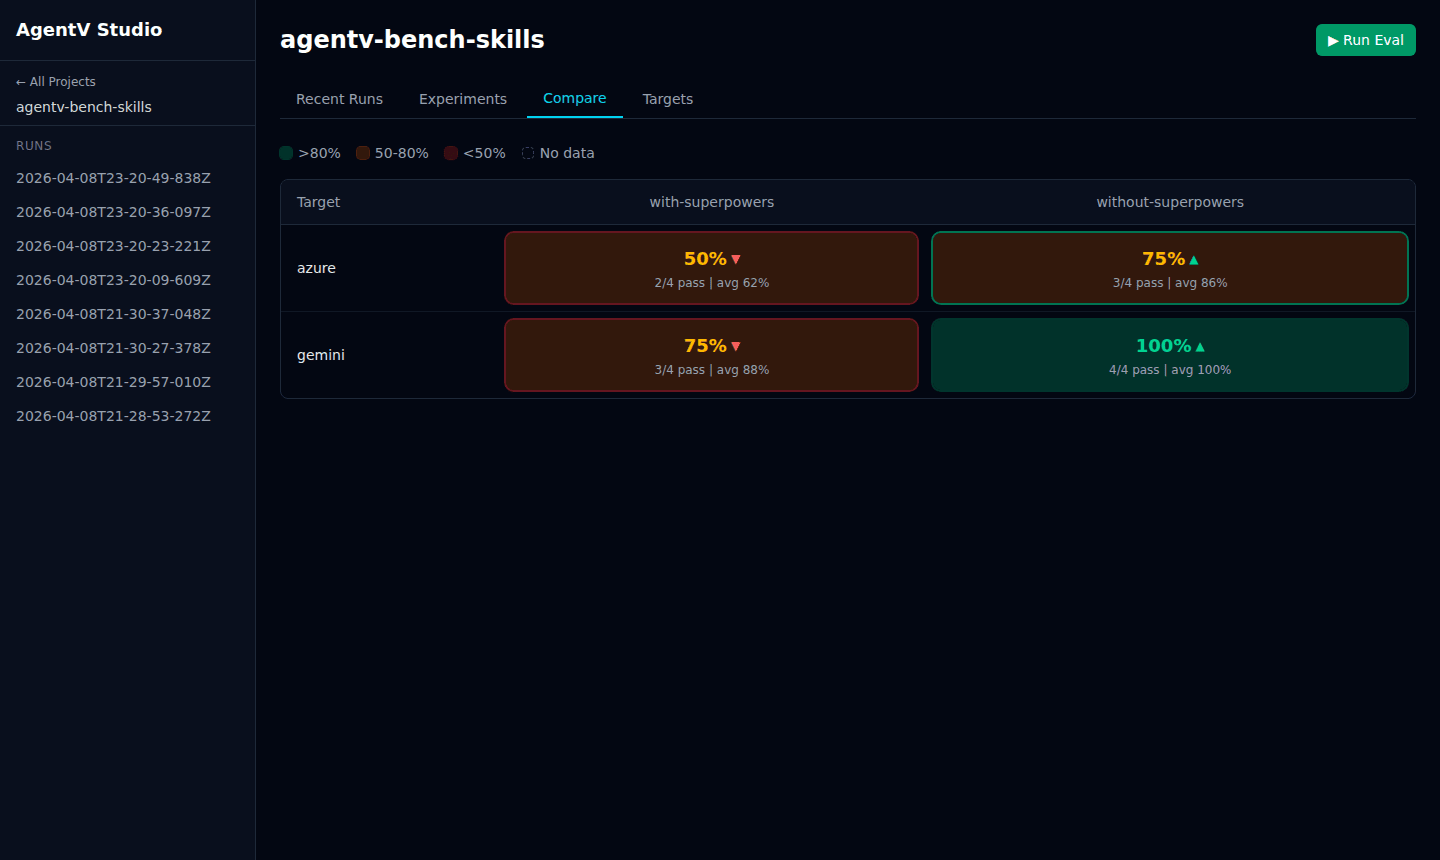
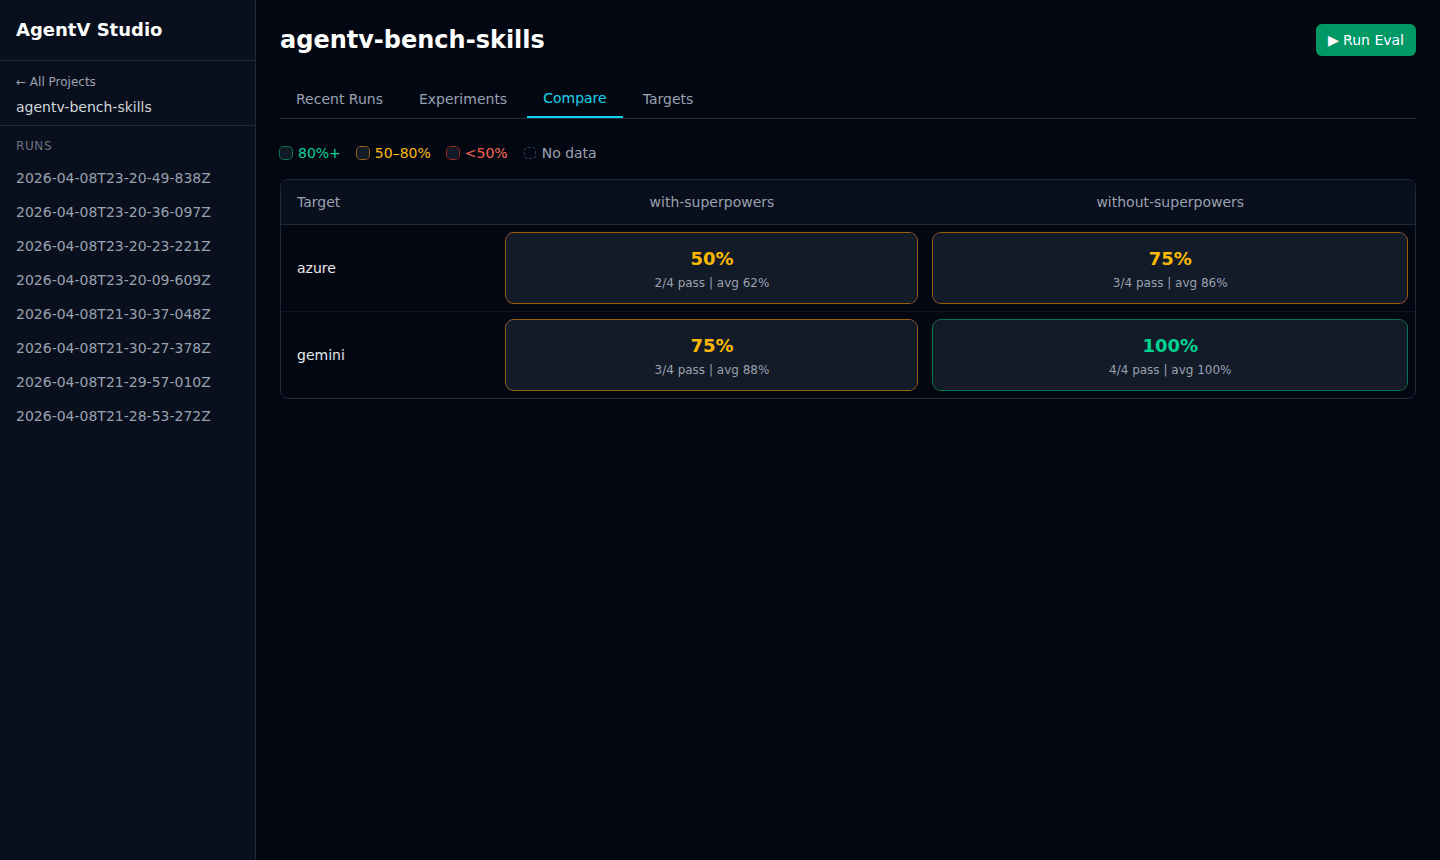
fix(studio): neutral cell background, semantic color on ring and text only
Previously cells mixed semantic background (amber/emerald/red) with a
separate ring highlight for best/worst, creating inconsistent signals.
Now: neutral bg-gray-800 for all cells, ring and text carry the semantic color.
Also removes best/worst highlighting entirely — it read as delta indicators.

diff --git a/apps/studio/src/components/CompareTab.tsx b/apps/studio/src/components/CompareTab.tsx
@@ -67,37 +67,20 @@ export function CompareTab({ data, isLoading, isError, error }: CompareTabProps)
     cellMap.set(JSON.stringify([cell.experiment, cell.target]), cell);
   }
 
-  // Find best pass rate per row (target) for highlighting
-  const bestByTarget = new Map<string, number>();
-  const worstByTarget = new Map<string, number>();
-  for (const target of targets) {
-    let best = -1;
-    let worst = 2;
-    for (const experiment of experiments) {
-      const cell = cellMap.get(JSON.stringify([experiment, target]));
-      if (cell) {
-        if (cell.pass_rate > best) best = cell.pass_rate;
-        if (cell.pass_rate < worst) worst = cell.pass_rate;
-      }
-    }
-    bestByTarget.set(target, best);
-    worstByTarget.set(target, worst);
-  }
-
   return (
     <div className="space-y-4">
       <div className="flex items-center gap-4 text-sm text-gray-400">
         <span className="flex items-center gap-1.5">
-          <span className="inline-block h-3 w-3 rounded-sm bg-emerald-900/60 ring-1 ring-emerald-700/40" />
-          &gt;80%
+          <span className="inline-block h-3 w-3 rounded-sm bg-gray-800/60 ring-1 ring-emerald-500/60" />
+          <span className="text-emerald-400">80%+</span>
         </span>
         <span className="flex items-center gap-1.5">
-          <span className="inline-block h-3 w-3 rounded-sm bg-amber-900/40 ring-1 ring-amber-700/40" />
-          50-80%
+          <span className="inline-block h-3 w-3 rounded-sm bg-gray-800/60 ring-1 ring-amber-500/60" />
+          <span className="text-amber-400">50–80%</span>
         </span>
         <span className="flex items-center gap-1.5">
-          <span className="inline-block h-3 w-3 rounded-sm bg-red-900/40 ring-1 ring-red-700/40" />
-          &lt;50%
+          <span className="inline-block h-3 w-3 rounded-sm bg-gray-800/60 ring-1 ring-red-500/60" />
+          <span className="text-red-400">&lt;50%</span>
         </span>
         <span className="flex items-center gap-1.5">
           <span className="inline-block h-3 w-3 rounded-sm border border-dashed border-gray-700" />
@@ -124,8 +107,6 @@ export function CompareTab({ data, isLoading, isError, error }: CompareTabProps)
                 target={target}
                 experiments={experiments}
                 cellMap={cellMap}
-                bestRate={bestByTarget.get(target) ?? 0}
-                worstRate={worstByTarget.get(target) ?? 0}
               />
             ))}
           </tbody>
@@ -139,14 +120,10 @@ function CompareRow({
   target,
   experiments,
   cellMap,
-  bestRate,
-  worstRate,
 }: {
   target: string;
   experiments: string[];
   cellMap: Map<string, CompareCell>;
-  bestRate: number;
-  worstRate: number;
 }) {
   return (
     <tr className="transition-colors hover:bg-gray-900/30">
@@ -156,15 +133,7 @@ function CompareRow({
         return (
           <td key={exp} className="px-2 py-2">
             {cell ? (
-              <CompareMatrixCell
-                cell={cell}
-                isBest={
-                  experiments.length > 1 && cell.pass_rate === bestRate && bestRate !== worstRate
-                }
-                isWorst={
-                  experiments.length > 1 && cell.pass_rate === worstRate && bestRate !== worstRate
-                }
-              />
+              <CompareMatrixCell cell={cell} />
             ) : (
               <div className="flex items-center justify-center rounded-lg border border-dashed border-gray-700 px-3 py-4 text-gray-600">
                 --
@@ -177,10 +146,10 @@ function CompareRow({
   );
 }
 
-function passRateColorClass(rate: number): string {
-  if (rate >= 0.8) return 'bg-emerald-900/60 ring-emerald-700/40';
-  if (rate >= 0.5) return 'bg-amber-900/40 ring-amber-700/40';
-  return 'bg-red-900/40 ring-red-700/40';
+function passRateRingClass(rate: number): string {
+  if (rate >= 0.8) return 'ring-emerald-500/60';
+  if (rate >= 0.5) return 'ring-amber-500/60';
+  return 'ring-red-500/60';
 }
 
 function passRateTextClass(rate: number): string {
@@ -189,15 +158,7 @@ function passRateTextClass(rate: number): string {
   return 'text-red-400';
 }
 
-function CompareMatrixCell({
-  cell,
-  isBest,
-  isWorst,
-}: {
-  cell: CompareCell;
-  isBest: boolean;
-  isWorst: boolean;
-}) {
+function CompareMatrixCell({ cell }: { cell: CompareCell }) {
   const [expanded, setExpanded] = useState(false);
   const pct = Math.round(cell.pass_rate * 100);
   const avgPct = Math.round(cell.avg_score * 100);
@@ -208,9 +169,7 @@ function CompareMatrixCell({
         type="button"
         onClick={() => setExpanded(!expanded)}
         aria-expanded={expanded}
-        className={`w-full rounded-lg px-3 py-3 text-center ring-1 transition-colors ${passRateColorClass(cell.pass_rate)} hover:brightness-110 ${
-          isBest ? 'ring-2 ring-emerald-500/60' : isWorst ? 'ring-2 ring-red-500/40' : ''
-        }`}
+        className={`w-full rounded-lg bg-gray-800/60 px-3 py-3 text-center ring-1 transition-colors hover:bg-gray-700/60 ${passRateRingClass(cell.pass_rate)}`}
       >
         <div className="flex items-center justify-center">
           <span
